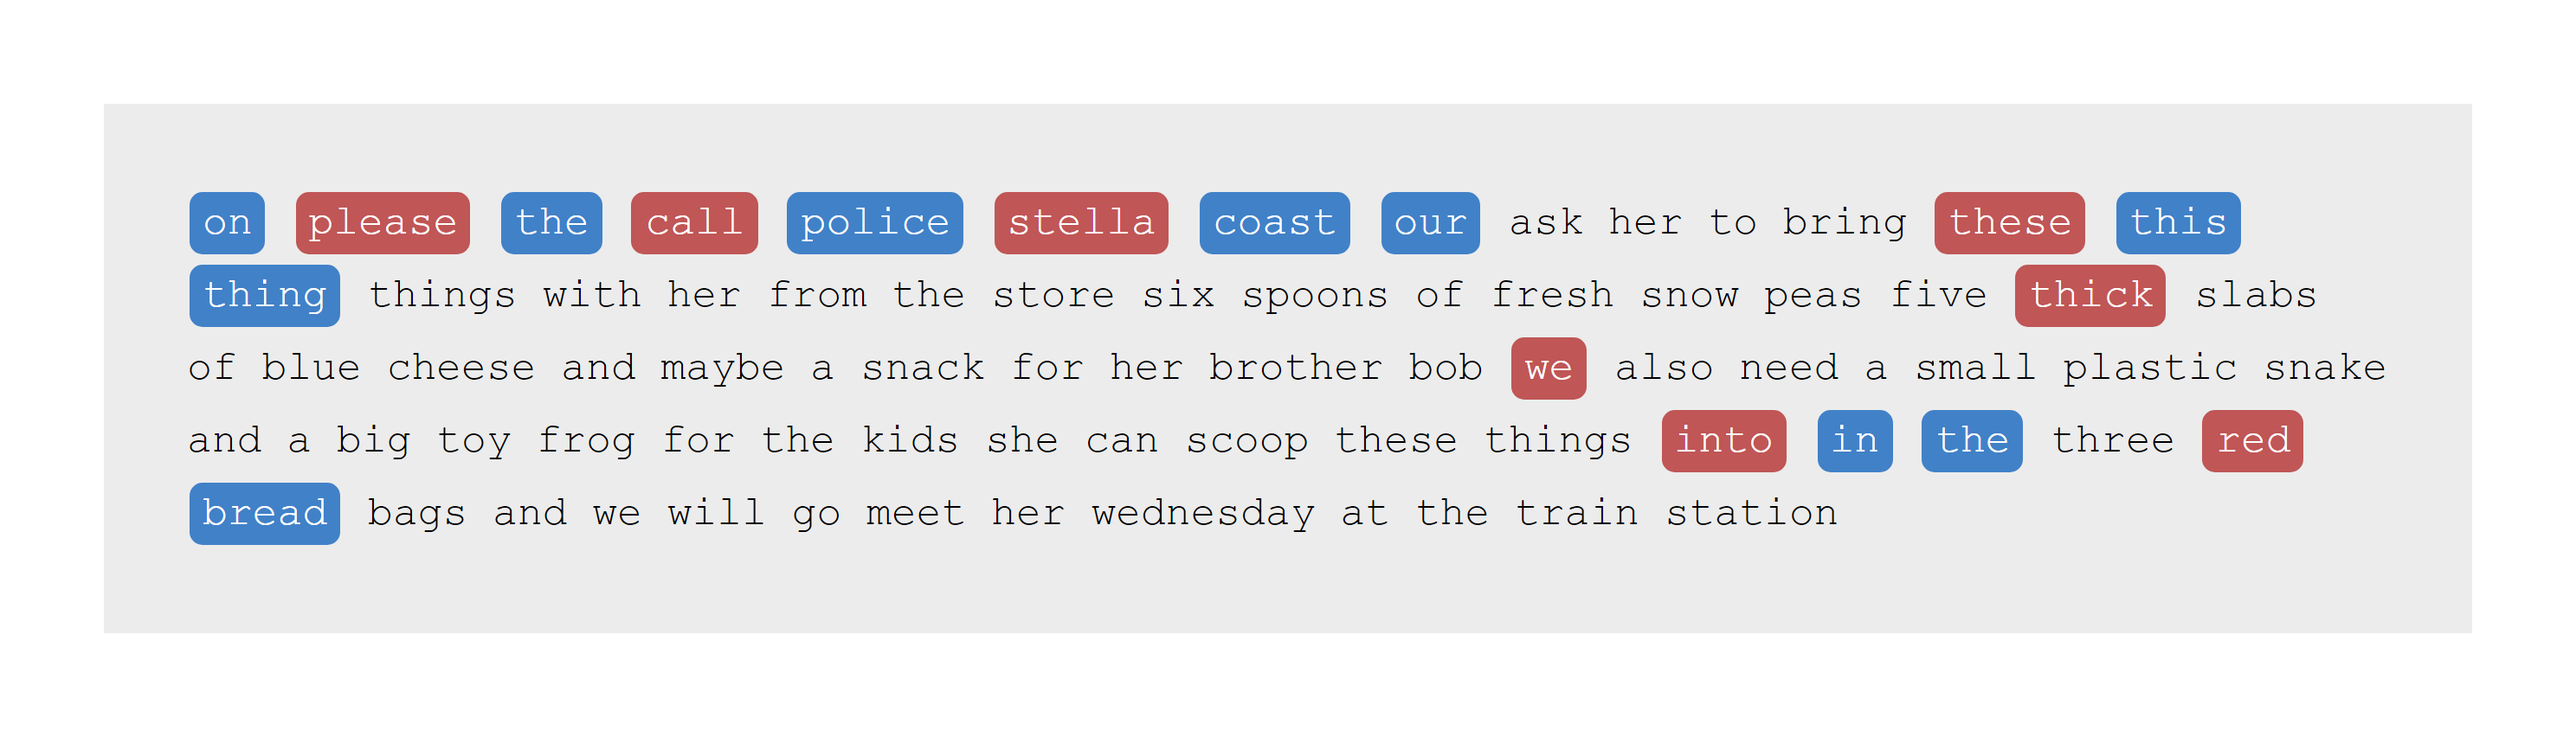
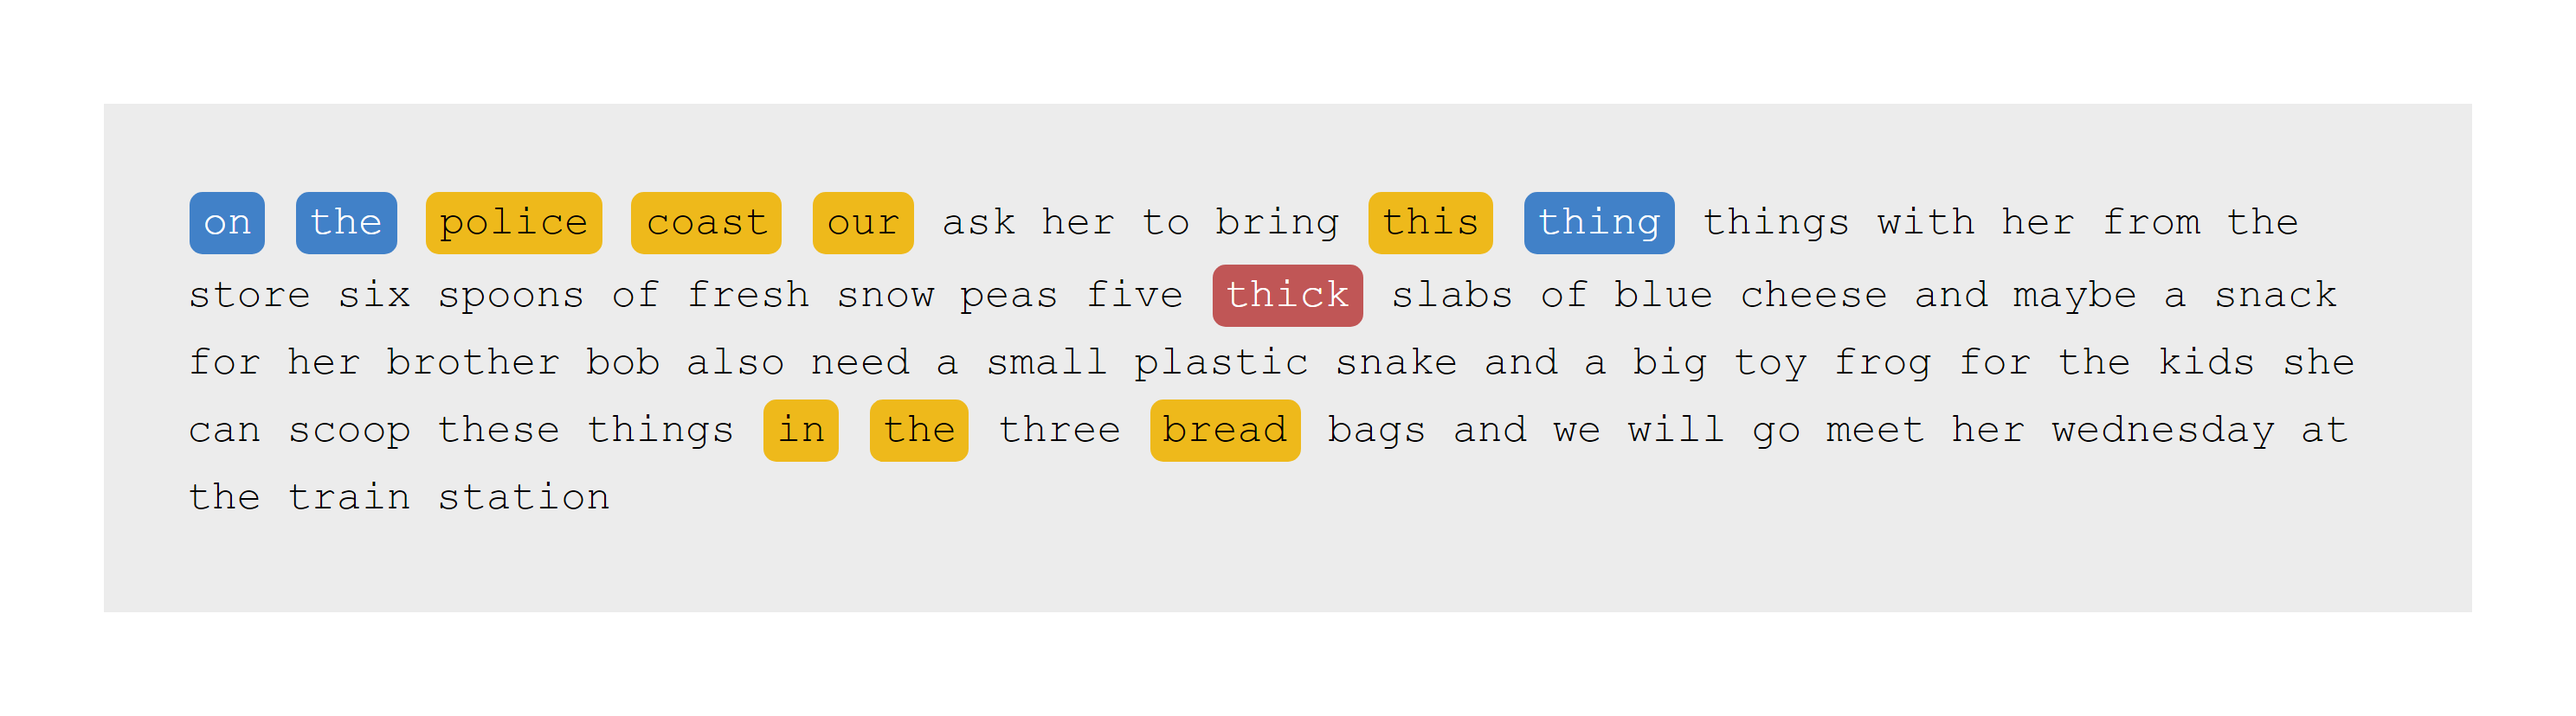
edit matches should be linear

Changed region(s): [[0.0625, 0.2415, 0.9375, 0.7548], [0.5312, 0.6643, 0.5625, 0.6944]]

diff --git a/README.md b/README.md
@@ -100,16 +100,24 @@ Visualize with `draw_WER()`
 draw_WER(stella_matrix)
 ```
 
-![](imgs/wer.png)
+![](imgs/wer1.png)
 
-Another example:
+Another example with letter-edits (“letter”) and no edits (“none”):
 
 ``` r
 stella_sentence_observed2 <- "On the Police Coast our ask her to bring this thing things with her from the store six spoons of fresh snow peas five slabs of blue cheese and maybe a snack for her brother Bob also need a small plastic snake and a big toy frog for the kids. She can scoop these things in the three bread bags and we will go meet her Wednesday at the train station."
+```
 
-stella_matrix2 <- match_matrix(stella_sentence_observed2, stella_sentence_truth, unit = "none")
-
-draw_WER(stella_matrix2)
+``` r
+stella_matrix2_letter <- match_matrix(stella_sentence_observed2, stella_sentence_truth, unit = "letter")
+draw_WER(stella_matrix2_letter)
 ```
 
 ![](imgs/wer2.png)
+
+``` r
+stella_matrix2_none <- match_matrix(stella_sentence_observed2, stella_sentence_truth, unit = "none")
+draw_WER(stella_matrix2_none)
+```
+
+![](imgs/wer3.png)
